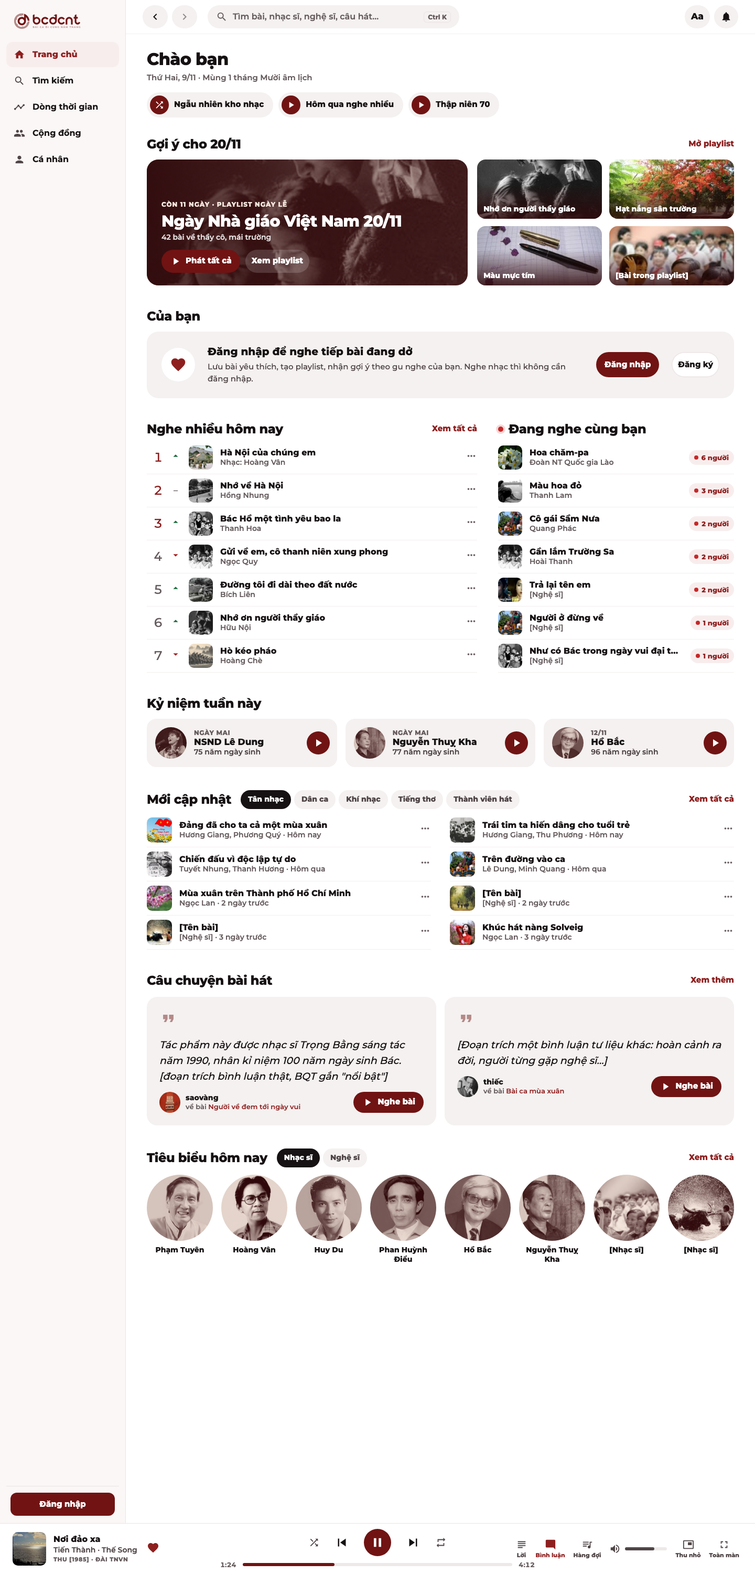
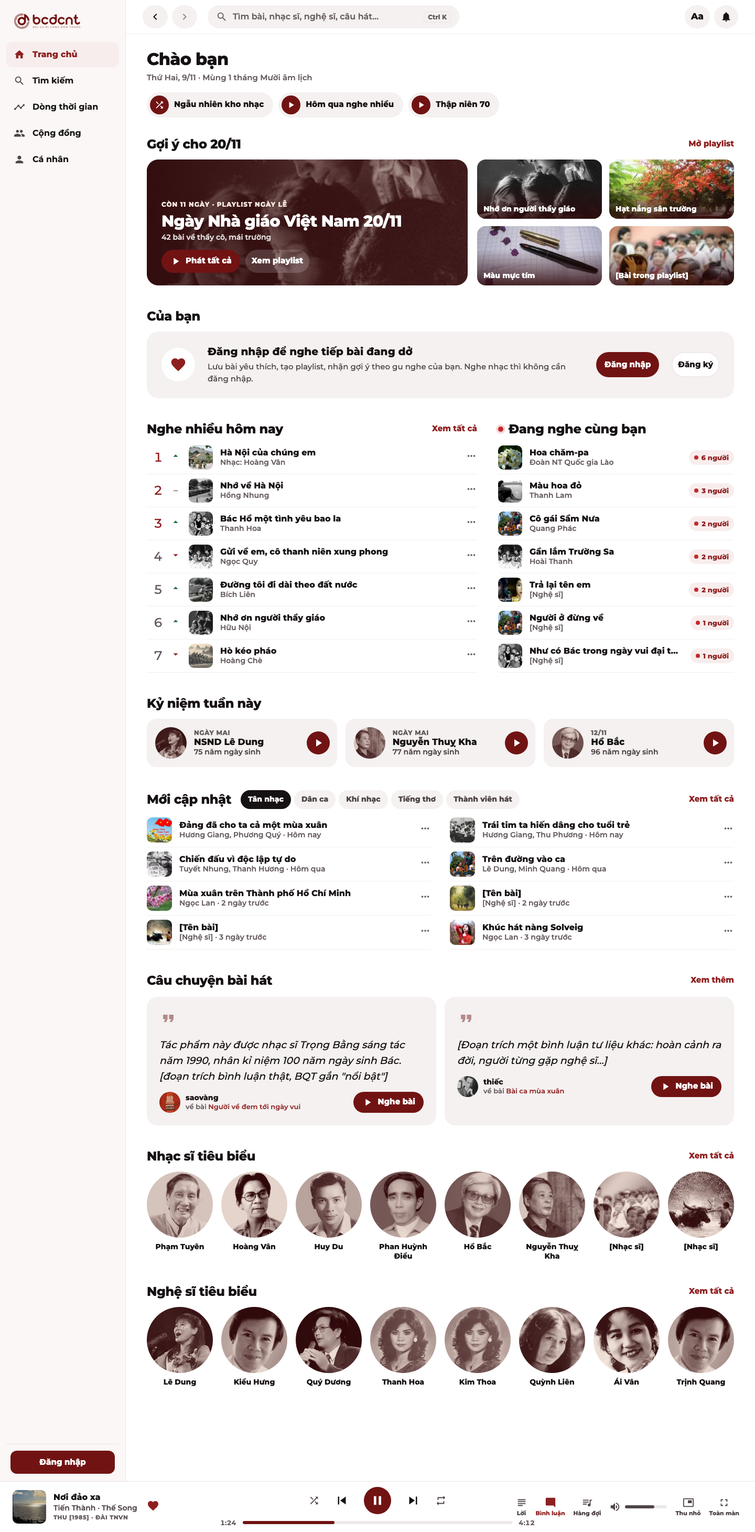
design(canvas): trang chủ desktop tách Nhạc sĩ / Nghệ sĩ tiêu biểu thành 2 hàng (không tab)

diff --git a/design/canvas/project/Desktop_TrangChu.dc.html b/design/canvas/project/Desktop_TrangChu.dc.html
@@ -11,8 +11,8 @@
 <link href="https://fonts.googleapis.com/css2?family=Montserrat:wght@500;600;700;800&amp;display=swap" rel="stylesheet">
 <style>body{margin:0}a{color:#8E1F1F;text-decoration:none}</style>
 </helmet>
-<!-- Trang chủ desktop gọn (9 khối): Lời chào + Phát nhanh · Gợi ý ngày lễ (chỉ khi sắp tới) · Của bạn (Nghe tiếp | Mới thích | Nghe đi nghe lại) · Nghe nhiều hôm nay | Đang nghe cùng bạn · Kỷ niệm tuần này · Mới cập nhật · Câu chuyện bài hát · Có thể bạn thích · Tiêu biểu hôm nay (Nhạc sĩ | Nghệ sĩ). Lọc trùng: bài đã có ở khối trên thì khối dưới bỏ qua. Thẻ bài giữ ~150–170px, cửa sổ rộng thì thêm cột. Bỏ Đi theo thập niên (đã có mục Dòng thời gian ở menu) -->
-<div style="width: 1440px; height: 3420px; background: #FFFFFF; font-family: Montserrat, sans-serif; line-height: 1.25; color: #161112; display: flex; flex-direction: column; overflow: hidden; position: relative">
+<!-- Trang chủ desktop gọn (10 khối): Lời chào + Phát nhanh · Gợi ý ngày lễ (chỉ khi sắp tới) · Của bạn (Nghe tiếp | Mới thích | Nghe đi nghe lại) · Nghe nhiều hôm nay | Đang nghe cùng bạn · Kỷ niệm tuần này · Mới cập nhật · Câu chuyện bài hát · Có thể bạn thích · Nhạc sĩ tiêu biểu · Nghệ sĩ tiêu biểu (2 hàng riêng, không tab: cho thấy kho có gì). Khối do người dùng chủ động chọn (Của bạn, Mới cập nhật) mới dùng tab. Lọc trùng: bài đã có ở khối trên thì khối dưới bỏ qua. Thẻ bài giữ ~150–170px, cửa sổ rộng thì thêm cột. Bỏ Đi theo thập niên (đã có mục Dòng thời gian ở menu) -->
+<div style="width: 1440px; height: 3340px; background: #FFFFFF; font-family: Montserrat, sans-serif; line-height: 1.25; color: #161112; display: flex; flex-direction: column; overflow: hidden; position: relative">
 <svg width="0" height="0" aria-hidden="true" style="position: absolute"><filter id="brandTint" color-interpolation-filters="sRGB"><feColorMatrix type="matrix" values="0.1667 0.5609 0.0566 0 0.1804  0.1868 0.6283 0.0634 0 0.0314  0.1767 0.5946 0.0600 0 0.0392  0 0 0 1 0"></feColorMatrix></filter></svg>
 <div style="flex: 1; min-height: 0; display: flex"><!-- Menu trái 240 (co về 76 khi cửa sổ < 1280): 5 mục cố định có chữ + Bàn làm việc (chỉ ai có quyền). Playlist ghim = nơi thả bài khi kéo -->
 <aside style="width: 240px; flex-shrink: 0; background: #FAF7F6; border-right: 1px solid #ECE4E4; display: flex; flex-direction: column; padding: 16px 12px 14px; box-sizing: border-box">
@@ -44,7 +44,8 @@
 <div style="margin-top: 0"><div style="display: flex; align-items: center; gap: 10px"><h2 style="margin: 0; flex: 1; font-size: 24px; font-weight: 800; letter-spacing: -0.4px">Câu chuyện bài hát</h2><span style="font-size: 15px; font-weight: 800; color: #8E1F1F">Xem thêm</span></div><div style="margin-top: 16px; display: flex; gap: 16px"><div style="flex: 1; border-radius: 20px; background: #F4F1F0; padding: 24px; display: flex; flex-direction: column; gap: 14px"><span style="color: #B48988"><svg width="34" height="34" viewBox="0 0 24 24" fill="currentColor" aria-hidden="true" style="flex-shrink: 0"><path d="M6 17h3l2-4V7H5v6h3zm8 0h3l2-4V7h-6v6h3z"></path></svg></span><div style="font-size: 19px; line-height: 30px; font-style: italic; font-weight: 500">Tác phẩm này được nhạc sĩ Trọng Bằng sáng tác năm 1990, nhân kỉ niệm 100 năm ngày sinh Bác. [đoạn trích bình luận thật, BQT gắn "nổi bật"]</div><div style="display: flex; align-items: center; gap: 10px"><img src="/_blob/82eaabf5353f0932631acc5c429f9aef" alt="" style="width: 40px; height: 40px; border-radius: 20px; object-fit: cover"><span style="flex: 1; display: flex; flex-direction: column"><span style="font-size: 14px; font-weight: 800">saovàng</span><span style="font-size: 13px; font-weight: 600; color: #665C5E">về bài <span style="color: #8E1F1F">Người về đem tới ngày vui</span></span></span><span style="height: 40px; padding: 0 16px; border-radius: 20px; display: inline-flex; align-items: center; gap: 8px; font-size: 15px; font-weight: 800; white-space: nowrap; background: #711313; color: #fff"><svg width="22" height="22" viewBox="0 0 24 24" fill="currentColor" aria-hidden="true" style="flex-shrink: 0"><path d="M8 5v14l11-7z"></path></svg>Nghe bài</span></div></div><div style="flex: 1; border-radius: 20px; background: #F4F1F0; padding: 24px; display: flex; flex-direction: column; gap: 14px"><span style="color: #B48988"><svg width="34" height="34" viewBox="0 0 24 24" fill="currentColor" aria-hidden="true" style="flex-shrink: 0"><path d="M6 17h3l2-4V7H5v6h3zm8 0h3l2-4V7h-6v6h3z"></path></svg></span><div style="font-size: 19px; line-height: 30px; font-style: italic; font-weight: 500">[Đoạn trích một bình luận tư liệu khác: hoàn cảnh ra đời, người từng gặp nghệ sĩ…]</div><div style="display: flex; align-items: center; gap: 10px"><img src="/_blob/a97d0f68f2204caebbee0ae2a5197797" alt="" style="width: 40px; height: 40px; border-radius: 20px; object-fit: cover"><span style="flex: 1; display: flex; flex-direction: column"><span style="font-size: 14px; font-weight: 800">thiếc</span><span style="font-size: 13px; font-weight: 600; color: #665C5E">về bài <span style="color: #8E1F1F">Bài ca mùa xuân</span></span></span><span style="height: 40px; padding: 0 16px; border-radius: 20px; display: inline-flex; align-items: center; gap: 8px; font-size: 15px; font-weight: 800; white-space: nowrap; background: #711313; color: #fff"><svg width="22" height="22" viewBox="0 0 24 24" fill="currentColor" aria-hidden="true" style="flex-shrink: 0"><path d="M8 5v14l11-7z"></path></svg>Nghe bài</span></div></div></div></div>
 </div>
 <div style="margin-top: 44px; display: flex; align-items: center"><h2 style="margin: 0; font-size: 24px; font-weight: 800; letter-spacing: -0.4px">Có thể bạn thích</h2><span style="flex: 1"></span><span style="font-size: 15px; font-weight: 800; color: #8E1F1F">Làm mới</span></div><div style="margin-top: 14px; display: grid; grid-template-columns: repeat(7, 1fr); gap: 18px"><div style="display: flex; flex-direction: column; gap: 8px; min-width: 0"><span style="position: relative; display: block"><img src="/_blob/4389c9865793c9555b85222a96bc6261" alt="" style="width: 100%; aspect-ratio: 1; border-radius: 16px; object-fit: cover; display: block"></span><span style="font-size: 15px; font-weight: 800; line-height: 20px; display: -webkit-box; -webkit-line-clamp: 2; -webkit-box-orient: vertical; overflow: hidden">Tình yêu bên suối</span><span style="font-size: 13px; font-weight: 600; color: #665C5E; white-space: nowrap; overflow: hidden; text-overflow: ellipsis">Vi Hoa</span></div><div style="display: flex; flex-direction: column; gap: 8px; min-width: 0"><span style="position: relative; display: block"><img src="/_blob/bb15a0633800c97866b0575ac7a8efe3" alt="" style="width: 100%; aspect-ratio: 1; border-radius: 16px; object-fit: cover; display: block"></span><span style="font-size: 15px; font-weight: 800; line-height: 20px; display: -webkit-box; -webkit-line-clamp: 2; -webkit-box-orient: vertical; overflow: hidden">Bài ca trên đỉnh Pò Hèn</span><span style="font-size: 13px; font-weight: 600; color: #665C5E; white-space: nowrap; overflow: hidden; text-overflow: ellipsis">Lê Dung</span></div><div style="display: flex; flex-direction: column; gap: 8px; min-width: 0"><span style="position: relative; display: block"><img src="/_blob/df179115019a3ccc2745790e41db9e77" alt="" style="width: 100%; aspect-ratio: 1; border-radius: 16px; object-fit: cover; display: block"></span><span style="font-size: 15px; font-weight: 800; line-height: 20px; display: -webkit-box; -webkit-line-clamp: 2; -webkit-box-orient: vertical; overflow: hidden">Biển mưa</span><span style="font-size: 13px; font-weight: 600; color: #665C5E; white-space: nowrap; overflow: hidden; text-overflow: ellipsis">Thùy Dung</span></div><div style="display: flex; flex-direction: column; gap: 8px; min-width: 0"><span style="position: relative; display: block"><img src="/_blob/bb3b0f0da1d0e24961fccd46653d78fd" alt="" style="width: 100%; aspect-ratio: 1; border-radius: 16px; object-fit: cover; display: block"></span><span style="font-size: 15px; font-weight: 800; line-height: 20px; display: -webkit-box; -webkit-line-clamp: 2; -webkit-box-orient: vertical; overflow: hidden">Hoa hồng biển đảo</span><span style="font-size: 13px; font-weight: 600; color: #665C5E; white-space: nowrap; overflow: hidden; text-overflow: ellipsis">Hùng Cường</span></div><div style="display: flex; flex-direction: column; gap: 8px; min-width: 0"><span style="position: relative; display: block"><img src="/_blob/347a87561e5096b8ac982c0ba4fe4ee2" alt="" style="width: 100%; aspect-ratio: 1; border-radius: 16px; object-fit: cover; display: block"></span><span style="font-size: 15px; font-weight: 800; line-height: 20px; display: -webkit-box; -webkit-line-clamp: 2; -webkit-box-orient: vertical; overflow: hidden">Gửi em ở cuối sông Hồng</span><span style="font-size: 13px; font-weight: 600; color: #665C5E; white-space: nowrap; overflow: hidden; text-overflow: ellipsis">Thanh Hoa</span></div><div style="display: flex; flex-direction: column; gap: 8px; min-width: 0"><span style="position: relative; display: block"><img src="/_blob/4d43b1ae67d8f63d12f062c5a3594426" alt="" style="width: 100%; aspect-ratio: 1; border-radius: 16px; object-fit: cover; display: block"></span><span style="font-size: 15px; font-weight: 800; line-height: 20px; display: -webkit-box; -webkit-line-clamp: 2; -webkit-box-orient: vertical; overflow: hidden">Lá xanh</span><span style="font-size: 13px; font-weight: 600; color: #665C5E; white-space: nowrap; overflow: hidden; text-overflow: ellipsis">Thanh Hoa</span></div><div style="display: flex; flex-direction: column; gap: 8px; min-width: 0"><span style="position: relative; display: block"><img src="/_blob/7c18e6713e2fe52e6a52bc2f56b2ecaf" alt="" style="width: 100%; aspect-ratio: 1; border-radius: 16px; object-fit: cover; display: block"></span><span style="font-size: 15px; font-weight: 800; line-height: 20px; display: -webkit-box; -webkit-line-clamp: 2; -webkit-box-orient: vertical; overflow: hidden">Chiến đấu vì độc lập tự do</span><span style="font-size: 13px; font-weight: 600; color: #665C5E; white-space: nowrap; overflow: hidden; text-overflow: ellipsis">Tiến Thành</span></div></div>
-<div style="margin-top: 44px; display: flex; align-items: center"><h2 style="margin: 0; font-size: 24px; font-weight: 800; letter-spacing: -0.4px">Tiêu biểu hôm nay</h2><div style="display: flex; gap: 6px; margin-left: 18px"><span style="height: 36px; padding: 0 14px; border-radius: 18px; display: flex; align-items: center; font-size: 14px; font-weight: 800; background: #161112; color: #fff">Nhạc sĩ</span><span style="height: 36px; padding: 0 14px; border-radius: 18px; display: flex; align-items: center; font-size: 14px; font-weight: 800; background: #F4F1F0; color: #4F4547">Nghệ sĩ</span></div><span style="flex: 1"></span><span style="font-size: 15px; font-weight: 800; color: #8E1F1F">Xem tất cả</span></div><div style="margin-top: 14px; display: grid; grid-template-columns: repeat(8, 1fr); gap: 16px"><div style="display: flex; flex-direction: column; align-items: center; gap: 8px"><img src="/_blob/d0be117e25da69210e9340d3bc1ad3e9" alt="" style="width: 100%; aspect-ratio: 1; border-radius: 50%; object-fit: cover; filter: url(#brandTint)"><span style="font-size: 14px; font-weight: 800; text-align: center; line-height: 18px">Phạm Tuyên</span></div><div style="display: flex; flex-direction: column; align-items: center; gap: 8px"><img src="/_blob/ce308386440f34ac7408727e1a99275c" alt="" style="width: 100%; aspect-ratio: 1; border-radius: 50%; object-fit: cover; filter: url(#brandTint)"><span style="font-size: 14px; font-weight: 800; text-align: center; line-height: 18px">Hoàng Vân</span></div><div style="display: flex; flex-direction: column; align-items: center; gap: 8px"><img src="/_blob/bdfff15a770709526c2104c10f099cbf" alt="" style="width: 100%; aspect-ratio: 1; border-radius: 50%; object-fit: cover; filter: url(#brandTint)"><span style="font-size: 14px; font-weight: 800; text-align: center; line-height: 18px">Huy Du</span></div><div style="display: flex; flex-direction: column; align-items: center; gap: 8px"><img src="/_blob/967ef0c8eba0b6408606ed1bf30b8a3c" alt="" style="width: 100%; aspect-ratio: 1; border-radius: 50%; object-fit: cover; filter: url(#brandTint)"><span style="font-size: 14px; font-weight: 800; text-align: center; line-height: 18px">Phan Huỳnh Điểu</span></div><div style="display: flex; flex-direction: column; align-items: center; gap: 8px"><img src="/_blob/7f1cc5b58b3c1010edc2852ecf82bb45" alt="" style="width: 100%; aspect-ratio: 1; border-radius: 50%; object-fit: cover; filter: url(#brandTint)"><span style="font-size: 14px; font-weight: 800; text-align: center; line-height: 18px">Hồ Bắc</span></div><div style="display: flex; flex-direction: column; align-items: center; gap: 8px"><img src="/_blob/09b4a9d1f3cb118726c46f229ea0c467" alt="" style="width: 100%; aspect-ratio: 1; border-radius: 50%; object-fit: cover; filter: url(#brandTint)"><span style="font-size: 14px; font-weight: 800; text-align: center; line-height: 18px">Nguyễn Thuỵ Kha</span></div><div style="display: flex; flex-direction: column; align-items: center; gap: 8px"><img src="/_blob/9251b47b1889ec51cca3a3508d7b86a0" alt="" style="width: 100%; aspect-ratio: 1; border-radius: 50%; object-fit: cover; filter: url(#brandTint)"><span style="font-size: 14px; font-weight: 800; text-align: center; line-height: 18px">[Nhạc sĩ]</span></div><div style="display: flex; flex-direction: column; align-items: center; gap: 8px"><img src="/_blob/3bad75add49fd61be13c117db4e9c476" alt="" style="width: 100%; aspect-ratio: 1; border-radius: 50%; object-fit: cover; filter: url(#brandTint)"><span style="font-size: 14px; font-weight: 800; text-align: center; line-height: 18px">[Nhạc sĩ]</span></div></div>
+<div style="margin-top: 44px; display: flex; align-items: center"><h2 style="margin: 0; font-size: 24px; font-weight: 800; letter-spacing: -0.4px">Nhạc sĩ tiêu biểu</h2><span style="flex: 1"></span><span style="font-size: 15px; font-weight: 800; color: #8E1F1F">Xem tất cả</span></div><div style="margin-top: 14px; display: grid; grid-template-columns: repeat(8, 1fr); gap: 16px"><div style="display: flex; flex-direction: column; align-items: center; gap: 8px"><img src="/_blob/d0be117e25da69210e9340d3bc1ad3e9" alt="" style="width: 100%; aspect-ratio: 1; border-radius: 50%; object-fit: cover; filter: url(#brandTint)"><span style="font-size: 14px; font-weight: 800; text-align: center; line-height: 18px">Phạm Tuyên</span></div><div style="display: flex; flex-direction: column; align-items: center; gap: 8px"><img src="/_blob/ce308386440f34ac7408727e1a99275c" alt="" style="width: 100%; aspect-ratio: 1; border-radius: 50%; object-fit: cover; filter: url(#brandTint)"><span style="font-size: 14px; font-weight: 800; text-align: center; line-height: 18px">Hoàng Vân</span></div><div style="display: flex; flex-direction: column; align-items: center; gap: 8px"><img src="/_blob/bdfff15a770709526c2104c10f099cbf" alt="" style="width: 100%; aspect-ratio: 1; border-radius: 50%; object-fit: cover; filter: url(#brandTint)"><span style="font-size: 14px; font-weight: 800; text-align: center; line-height: 18px">Huy Du</span></div><div style="display: flex; flex-direction: column; align-items: center; gap: 8px"><img src="/_blob/967ef0c8eba0b6408606ed1bf30b8a3c" alt="" style="width: 100%; aspect-ratio: 1; border-radius: 50%; object-fit: cover; filter: url(#brandTint)"><span style="font-size: 14px; font-weight: 800; text-align: center; line-height: 18px">Phan Huỳnh Điểu</span></div><div style="display: flex; flex-direction: column; align-items: center; gap: 8px"><img src="/_blob/7f1cc5b58b3c1010edc2852ecf82bb45" alt="" style="width: 100%; aspect-ratio: 1; border-radius: 50%; object-fit: cover; filter: url(#brandTint)"><span style="font-size: 14px; font-weight: 800; text-align: center; line-height: 18px">Hồ Bắc</span></div><div style="display: flex; flex-direction: column; align-items: center; gap: 8px"><img src="/_blob/09b4a9d1f3cb118726c46f229ea0c467" alt="" style="width: 100%; aspect-ratio: 1; border-radius: 50%; object-fit: cover; filter: url(#brandTint)"><span style="font-size: 14px; font-weight: 800; text-align: center; line-height: 18px">Nguyễn Thuỵ Kha</span></div><div style="display: flex; flex-direction: column; align-items: center; gap: 8px"><img src="/_blob/9251b47b1889ec51cca3a3508d7b86a0" alt="" style="width: 100%; aspect-ratio: 1; border-radius: 50%; object-fit: cover; filter: url(#brandTint)"><span style="font-size: 14px; font-weight: 800; text-align: center; line-height: 18px">[Nhạc sĩ]</span></div><div style="display: flex; flex-direction: column; align-items: center; gap: 8px"><img src="/_blob/3bad75add49fd61be13c117db4e9c476" alt="" style="width: 100%; aspect-ratio: 1; border-radius: 50%; object-fit: cover; filter: url(#brandTint)"><span style="font-size: 14px; font-weight: 800; text-align: center; line-height: 18px">[Nhạc sĩ]</span></div></div>
+<div style="margin-top: 44px; display: flex; align-items: center"><h2 style="margin: 0; font-size: 24px; font-weight: 800; letter-spacing: -0.4px">Nghệ sĩ tiêu biểu</h2><span style="flex: 1"></span><span style="font-size: 15px; font-weight: 800; color: #8E1F1F">Xem tất cả</span></div><div style="margin-top: 14px; display: grid; grid-template-columns: repeat(8, 1fr); gap: 16px"><div style="display: flex; flex-direction: column; align-items: center; gap: 8px"><img src="/_blob/bdcaa2726179d81940c9f392878e853d" alt="" style="width: 100%; aspect-ratio: 1; border-radius: 50%; object-fit: cover; filter: url(#brandTint)"><span style="font-size: 14px; font-weight: 800; text-align: center; line-height: 18px">Lê Dung</span></div><div style="display: flex; flex-direction: column; align-items: center; gap: 8px"><img src="/_blob/53dfe697f429b1407d32bc3a4bd6e54e" alt="" style="width: 100%; aspect-ratio: 1; border-radius: 50%; object-fit: cover; filter: url(#brandTint)"><span style="font-size: 14px; font-weight: 800; text-align: center; line-height: 18px">Kiều Hưng</span></div><div style="display: flex; flex-direction: column; align-items: center; gap: 8px"><img src="/_blob/cda535618eeef0ed7e4e103385b67603" alt="" style="width: 100%; aspect-ratio: 1; border-radius: 50%; object-fit: cover; filter: url(#brandTint)"><span style="font-size: 14px; font-weight: 800; text-align: center; line-height: 18px">Quý Dương</span></div><div style="display: flex; flex-direction: column; align-items: center; gap: 8px"><img src="/_blob/670687ae13ef94f00e8e104098cef387" alt="" style="width: 100%; aspect-ratio: 1; border-radius: 50%; object-fit: cover; filter: url(#brandTint)"><span style="font-size: 14px; font-weight: 800; text-align: center; line-height: 18px">Thanh Hoa</span></div><div style="display: flex; flex-direction: column; align-items: center; gap: 8px"><img src="/_blob/55e993e865c5ee96318be61a43e22f69" alt="" style="width: 100%; aspect-ratio: 1; border-radius: 50%; object-fit: cover; filter: url(#brandTint)"><span style="font-size: 14px; font-weight: 800; text-align: center; line-height: 18px">Kim Thoa</span></div><div style="display: flex; flex-direction: column; align-items: center; gap: 8px"><img src="/_blob/ee090bf65c0f1f94ff1c48a291a9d3a5" alt="" style="width: 100%; aspect-ratio: 1; border-radius: 50%; object-fit: cover; filter: url(#brandTint)"><span style="font-size: 14px; font-weight: 800; text-align: center; line-height: 18px">Quỳnh Liên</span></div><div style="display: flex; flex-direction: column; align-items: center; gap: 8px"><img src="/_blob/65bc3a73d2e07138ec63e1648b645846" alt="" style="width: 100%; aspect-ratio: 1; border-radius: 50%; object-fit: cover; filter: url(#brandTint)"><span style="font-size: 14px; font-weight: 800; text-align: center; line-height: 18px">Ái Vân</span></div><div style="display: flex; flex-direction: column; align-items: center; gap: 8px"><img src="/_blob/180c7f3c5f6a03d15d5cfc4726a5f835" alt="" style="width: 100%; aspect-ratio: 1; border-radius: 50%; object-fit: cover; filter: url(#brandTint)"><span style="font-size: 14px; font-weight: 800; text-align: center; line-height: 18px">Trịnh Quang</span></div></div>
 </div></main></div></div><!-- Thanh phát 96, tầng ngoài cùng: đổi trang không dừng nhạc. Trái: bài + nhãn lưu trữ · Giữa: điều khiển (phát 52) + thanh 6px (nở 10 khi rê) · Phải: nút CÓ CHỮ mở ngăn phải, âm lượng, mini player, toàn màn (F) -->
 <div style="height: 96px; flex-shrink: 0; border-top: 1px solid #ECE4E4; background: #fff; display: flex; align-items: center; padding: 0 24px; gap: 24px">
 <div style="width: 340px; display: flex; align-items: center; gap: 14px"><img src="/_blob/15d021a625e44f0e9ff37aae395a5ec2" alt="" style="width: 64px; height: 64px; border-radius: 10px; object-fit: cover"><span style="min-width: 0; display: flex; flex-direction: column; gap: 2px"><span style="font-size: 16px; font-weight: 800">Nơi đảo xa</span><span style="font-size: 14px; font-weight: 600; color: #4F4547">Tiến Thành · Thế Song</span><span style="font-size: 11px; font-weight: 800; letter-spacing: 0.6px; color: #665C5E">THU [1985] · ĐÀI TNVN</span></span><span style="margin-left: 4px; color: #8E1F1F"><svg width="24" height="24" viewBox="0 0 24 24" fill="currentColor" aria-hidden="true" style="flex-shrink: 0"><path d="M12 21.35l-1.45-1.32C5.4 15.36 2 12.28 2 8.5 2 5.42 4.42 3 7.5 3c1.74 0 3.41.81 4.5 2.09C13.09 3.81 14.76 3 16.5 3 19.58 3 22 5.42 22 8.5c0 3.78-3.4 6.86-8.55 11.54L12 21.35z"></path></svg></span></div>
@@ -55,7 +56,7 @@
 </div>
 </div>
 </x-dc>
-<script type="text/x-dc" data-dc-script data-props='{"$preview":{"width":1440,"height":3420}}'>
+<script type="text/x-dc" data-dc-script data-props='{"$preview":{"width":1440,"height":3340}}'>
 class Component extends DCLogic {
 renderVals() {
 return {};

diff --git a/design/canvas/project/Desktop_TrangChu_Khach.dc.html b/design/canvas/project/Desktop_TrangChu_Khach.dc.html
@@ -12,7 +12,7 @@
 <style>body{margin:0}a{color:#8E1F1F;text-decoration:none}</style>
 </helmet>
 <!-- Trang chủ khi chưa đăng nhập: khối "Của bạn" thành lời mời đăng nhập; không có Có thể bạn thích, kênh cá nhân; menu không có playlist, chân menu là nút Đăng nhập -->
-<div style="width: 1440px; height: 3000px; background: #FFFFFF; font-family: Montserrat, sans-serif; line-height: 1.25; color: #161112; display: flex; flex-direction: column; overflow: hidden; position: relative">
+<div style="width: 1440px; height: 2920px; background: #FFFFFF; font-family: Montserrat, sans-serif; line-height: 1.25; color: #161112; display: flex; flex-direction: column; overflow: hidden; position: relative">
 <svg width="0" height="0" aria-hidden="true" style="position: absolute"><filter id="brandTint" color-interpolation-filters="sRGB"><feColorMatrix type="matrix" values="0.1667 0.5609 0.0566 0 0.1804  0.1868 0.6283 0.0634 0 0.0314  0.1767 0.5946 0.0600 0 0.0392  0 0 0 1 0"></feColorMatrix></filter></svg>
 <div style="flex: 1; min-height: 0; display: flex"><!-- Menu trái 240 (co về 76 khi cửa sổ < 1280): 5 mục cố định có chữ + Bàn làm việc (chỉ ai có quyền). Playlist ghim = nơi thả bài khi kéo -->
 <aside style="width: 240px; flex-shrink: 0; background: #FAF7F6; border-right: 1px solid #ECE4E4; display: flex; flex-direction: column; padding: 16px 12px 14px; box-sizing: border-box">
@@ -41,7 +41,8 @@
 <div style="margin-top: 0"><div style="display: flex; align-items: center; gap: 10px"><h2 style="margin: 0; flex: 1; font-size: 24px; font-weight: 800; letter-spacing: -0.4px">Câu chuyện bài hát</h2><span style="font-size: 15px; font-weight: 800; color: #8E1F1F">Xem thêm</span></div><div style="margin-top: 16px; display: flex; gap: 16px"><div style="flex: 1; border-radius: 20px; background: #F4F1F0; padding: 24px; display: flex; flex-direction: column; gap: 14px"><span style="color: #B48988"><svg width="34" height="34" viewBox="0 0 24 24" fill="currentColor" aria-hidden="true" style="flex-shrink: 0"><path d="M6 17h3l2-4V7H5v6h3zm8 0h3l2-4V7h-6v6h3z"></path></svg></span><div style="font-size: 19px; line-height: 30px; font-style: italic; font-weight: 500">Tác phẩm này được nhạc sĩ Trọng Bằng sáng tác năm 1990, nhân kỉ niệm 100 năm ngày sinh Bác. [đoạn trích bình luận thật, BQT gắn "nổi bật"]</div><div style="display: flex; align-items: center; gap: 10px"><img src="/_blob/82eaabf5353f0932631acc5c429f9aef" alt="" style="width: 40px; height: 40px; border-radius: 20px; object-fit: cover"><span style="flex: 1; display: flex; flex-direction: column"><span style="font-size: 14px; font-weight: 800">saovàng</span><span style="font-size: 13px; font-weight: 600; color: #665C5E">về bài <span style="color: #8E1F1F">Người về đem tới ngày vui</span></span></span><span style="height: 40px; padding: 0 16px; border-radius: 20px; display: inline-flex; align-items: center; gap: 8px; font-size: 15px; font-weight: 800; white-space: nowrap; background: #711313; color: #fff"><svg width="22" height="22" viewBox="0 0 24 24" fill="currentColor" aria-hidden="true" style="flex-shrink: 0"><path d="M8 5v14l11-7z"></path></svg>Nghe bài</span></div></div><div style="flex: 1; border-radius: 20px; background: #F4F1F0; padding: 24px; display: flex; flex-direction: column; gap: 14px"><span style="color: #B48988"><svg width="34" height="34" viewBox="0 0 24 24" fill="currentColor" aria-hidden="true" style="flex-shrink: 0"><path d="M6 17h3l2-4V7H5v6h3zm8 0h3l2-4V7h-6v6h3z"></path></svg></span><div style="font-size: 19px; line-height: 30px; font-style: italic; font-weight: 500">[Đoạn trích một bình luận tư liệu khác: hoàn cảnh ra đời, người từng gặp nghệ sĩ…]</div><div style="display: flex; align-items: center; gap: 10px"><img src="/_blob/a97d0f68f2204caebbee0ae2a5197797" alt="" style="width: 40px; height: 40px; border-radius: 20px; object-fit: cover"><span style="flex: 1; display: flex; flex-direction: column"><span style="font-size: 14px; font-weight: 800">thiếc</span><span style="font-size: 13px; font-weight: 600; color: #665C5E">về bài <span style="color: #8E1F1F">Bài ca mùa xuân</span></span></span><span style="height: 40px; padding: 0 16px; border-radius: 20px; display: inline-flex; align-items: center; gap: 8px; font-size: 15px; font-weight: 800; white-space: nowrap; background: #711313; color: #fff"><svg width="22" height="22" viewBox="0 0 24 24" fill="currentColor" aria-hidden="true" style="flex-shrink: 0"><path d="M8 5v14l11-7z"></path></svg>Nghe bài</span></div></div></div></div>
 </div>
 
-<div style="margin-top: 44px; display: flex; align-items: center"><h2 style="margin: 0; font-size: 24px; font-weight: 800; letter-spacing: -0.4px">Tiêu biểu hôm nay</h2><div style="display: flex; gap: 6px; margin-left: 18px"><span style="height: 36px; padding: 0 14px; border-radius: 18px; display: flex; align-items: center; font-size: 14px; font-weight: 800; background: #161112; color: #fff">Nhạc sĩ</span><span style="height: 36px; padding: 0 14px; border-radius: 18px; display: flex; align-items: center; font-size: 14px; font-weight: 800; background: #F4F1F0; color: #4F4547">Nghệ sĩ</span></div><span style="flex: 1"></span><span style="font-size: 15px; font-weight: 800; color: #8E1F1F">Xem tất cả</span></div><div style="margin-top: 14px; display: grid; grid-template-columns: repeat(8, 1fr); gap: 16px"><div style="display: flex; flex-direction: column; align-items: center; gap: 8px"><img src="/_blob/d0be117e25da69210e9340d3bc1ad3e9" alt="" style="width: 100%; aspect-ratio: 1; border-radius: 50%; object-fit: cover; filter: url(#brandTint)"><span style="font-size: 14px; font-weight: 800; text-align: center; line-height: 18px">Phạm Tuyên</span></div><div style="display: flex; flex-direction: column; align-items: center; gap: 8px"><img src="/_blob/ce308386440f34ac7408727e1a99275c" alt="" style="width: 100%; aspect-ratio: 1; border-radius: 50%; object-fit: cover; filter: url(#brandTint)"><span style="font-size: 14px; font-weight: 800; text-align: center; line-height: 18px">Hoàng Vân</span></div><div style="display: flex; flex-direction: column; align-items: center; gap: 8px"><img src="/_blob/bdfff15a770709526c2104c10f099cbf" alt="" style="width: 100%; aspect-ratio: 1; border-radius: 50%; object-fit: cover; filter: url(#brandTint)"><span style="font-size: 14px; font-weight: 800; text-align: center; line-height: 18px">Huy Du</span></div><div style="display: flex; flex-direction: column; align-items: center; gap: 8px"><img src="/_blob/967ef0c8eba0b6408606ed1bf30b8a3c" alt="" style="width: 100%; aspect-ratio: 1; border-radius: 50%; object-fit: cover; filter: url(#brandTint)"><span style="font-size: 14px; font-weight: 800; text-align: center; line-height: 18px">Phan Huỳnh Điểu</span></div><div style="display: flex; flex-direction: column; align-items: center; gap: 8px"><img src="/_blob/7f1cc5b58b3c1010edc2852ecf82bb45" alt="" style="width: 100%; aspect-ratio: 1; border-radius: 50%; object-fit: cover; filter: url(#brandTint)"><span style="font-size: 14px; font-weight: 800; text-align: center; line-height: 18px">Hồ Bắc</span></div><div style="display: flex; flex-direction: column; align-items: center; gap: 8px"><img src="/_blob/09b4a9d1f3cb118726c46f229ea0c467" alt="" style="width: 100%; aspect-ratio: 1; border-radius: 50%; object-fit: cover; filter: url(#brandTint)"><span style="font-size: 14px; font-weight: 800; text-align: center; line-height: 18px">Nguyễn Thuỵ Kha</span></div><div style="display: flex; flex-direction: column; align-items: center; gap: 8px"><img src="/_blob/9251b47b1889ec51cca3a3508d7b86a0" alt="" style="width: 100%; aspect-ratio: 1; border-radius: 50%; object-fit: cover; filter: url(#brandTint)"><span style="font-size: 14px; font-weight: 800; text-align: center; line-height: 18px">[Nhạc sĩ]</span></div><div style="display: flex; flex-direction: column; align-items: center; gap: 8px"><img src="/_blob/3bad75add49fd61be13c117db4e9c476" alt="" style="width: 100%; aspect-ratio: 1; border-radius: 50%; object-fit: cover; filter: url(#brandTint)"><span style="font-size: 14px; font-weight: 800; text-align: center; line-height: 18px">[Nhạc sĩ]</span></div></div>
+<div style="margin-top: 44px; display: flex; align-items: center"><h2 style="margin: 0; font-size: 24px; font-weight: 800; letter-spacing: -0.4px">Nhạc sĩ tiêu biểu</h2><span style="flex: 1"></span><span style="font-size: 15px; font-weight: 800; color: #8E1F1F">Xem tất cả</span></div><div style="margin-top: 14px; display: grid; grid-template-columns: repeat(8, 1fr); gap: 16px"><div style="display: flex; flex-direction: column; align-items: center; gap: 8px"><img src="/_blob/d0be117e25da69210e9340d3bc1ad3e9" alt="" style="width: 100%; aspect-ratio: 1; border-radius: 50%; object-fit: cover; filter: url(#brandTint)"><span style="font-size: 14px; font-weight: 800; text-align: center; line-height: 18px">Phạm Tuyên</span></div><div style="display: flex; flex-direction: column; align-items: center; gap: 8px"><img src="/_blob/ce308386440f34ac7408727e1a99275c" alt="" style="width: 100%; aspect-ratio: 1; border-radius: 50%; object-fit: cover; filter: url(#brandTint)"><span style="font-size: 14px; font-weight: 800; text-align: center; line-height: 18px">Hoàng Vân</span></div><div style="display: flex; flex-direction: column; align-items: center; gap: 8px"><img src="/_blob/bdfff15a770709526c2104c10f099cbf" alt="" style="width: 100%; aspect-ratio: 1; border-radius: 50%; object-fit: cover; filter: url(#brandTint)"><span style="font-size: 14px; font-weight: 800; text-align: center; line-height: 18px">Huy Du</span></div><div style="display: flex; flex-direction: column; align-items: center; gap: 8px"><img src="/_blob/967ef0c8eba0b6408606ed1bf30b8a3c" alt="" style="width: 100%; aspect-ratio: 1; border-radius: 50%; object-fit: cover; filter: url(#brandTint)"><span style="font-size: 14px; font-weight: 800; text-align: center; line-height: 18px">Phan Huỳnh Điểu</span></div><div style="display: flex; flex-direction: column; align-items: center; gap: 8px"><img src="/_blob/7f1cc5b58b3c1010edc2852ecf82bb45" alt="" style="width: 100%; aspect-ratio: 1; border-radius: 50%; object-fit: cover; filter: url(#brandTint)"><span style="font-size: 14px; font-weight: 800; text-align: center; line-height: 18px">Hồ Bắc</span></div><div style="display: flex; flex-direction: column; align-items: center; gap: 8px"><img src="/_blob/09b4a9d1f3cb118726c46f229ea0c467" alt="" style="width: 100%; aspect-ratio: 1; border-radius: 50%; object-fit: cover; filter: url(#brandTint)"><span style="font-size: 14px; font-weight: 800; text-align: center; line-height: 18px">Nguyễn Thuỵ Kha</span></div><div style="display: flex; flex-direction: column; align-items: center; gap: 8px"><img src="/_blob/9251b47b1889ec51cca3a3508d7b86a0" alt="" style="width: 100%; aspect-ratio: 1; border-radius: 50%; object-fit: cover; filter: url(#brandTint)"><span style="font-size: 14px; font-weight: 800; text-align: center; line-height: 18px">[Nhạc sĩ]</span></div><div style="display: flex; flex-direction: column; align-items: center; gap: 8px"><img src="/_blob/3bad75add49fd61be13c117db4e9c476" alt="" style="width: 100%; aspect-ratio: 1; border-radius: 50%; object-fit: cover; filter: url(#brandTint)"><span style="font-size: 14px; font-weight: 800; text-align: center; line-height: 18px">[Nhạc sĩ]</span></div></div>
+<div style="margin-top: 44px; display: flex; align-items: center"><h2 style="margin: 0; font-size: 24px; font-weight: 800; letter-spacing: -0.4px">Nghệ sĩ tiêu biểu</h2><span style="flex: 1"></span><span style="font-size: 15px; font-weight: 800; color: #8E1F1F">Xem tất cả</span></div><div style="margin-top: 14px; display: grid; grid-template-columns: repeat(8, 1fr); gap: 16px"><div style="display: flex; flex-direction: column; align-items: center; gap: 8px"><img src="/_blob/bdcaa2726179d81940c9f392878e853d" alt="" style="width: 100%; aspect-ratio: 1; border-radius: 50%; object-fit: cover; filter: url(#brandTint)"><span style="font-size: 14px; font-weight: 800; text-align: center; line-height: 18px">Lê Dung</span></div><div style="display: flex; flex-direction: column; align-items: center; gap: 8px"><img src="/_blob/53dfe697f429b1407d32bc3a4bd6e54e" alt="" style="width: 100%; aspect-ratio: 1; border-radius: 50%; object-fit: cover; filter: url(#brandTint)"><span style="font-size: 14px; font-weight: 800; text-align: center; line-height: 18px">Kiều Hưng</span></div><div style="display: flex; flex-direction: column; align-items: center; gap: 8px"><img src="/_blob/cda535618eeef0ed7e4e103385b67603" alt="" style="width: 100%; aspect-ratio: 1; border-radius: 50%; object-fit: cover; filter: url(#brandTint)"><span style="font-size: 14px; font-weight: 800; text-align: center; line-height: 18px">Quý Dương</span></div><div style="display: flex; flex-direction: column; align-items: center; gap: 8px"><img src="/_blob/670687ae13ef94f00e8e104098cef387" alt="" style="width: 100%; aspect-ratio: 1; border-radius: 50%; object-fit: cover; filter: url(#brandTint)"><span style="font-size: 14px; font-weight: 800; text-align: center; line-height: 18px">Thanh Hoa</span></div><div style="display: flex; flex-direction: column; align-items: center; gap: 8px"><img src="/_blob/55e993e865c5ee96318be61a43e22f69" alt="" style="width: 100%; aspect-ratio: 1; border-radius: 50%; object-fit: cover; filter: url(#brandTint)"><span style="font-size: 14px; font-weight: 800; text-align: center; line-height: 18px">Kim Thoa</span></div><div style="display: flex; flex-direction: column; align-items: center; gap: 8px"><img src="/_blob/ee090bf65c0f1f94ff1c48a291a9d3a5" alt="" style="width: 100%; aspect-ratio: 1; border-radius: 50%; object-fit: cover; filter: url(#brandTint)"><span style="font-size: 14px; font-weight: 800; text-align: center; line-height: 18px">Quỳnh Liên</span></div><div style="display: flex; flex-direction: column; align-items: center; gap: 8px"><img src="/_blob/65bc3a73d2e07138ec63e1648b645846" alt="" style="width: 100%; aspect-ratio: 1; border-radius: 50%; object-fit: cover; filter: url(#brandTint)"><span style="font-size: 14px; font-weight: 800; text-align: center; line-height: 18px">Ái Vân</span></div><div style="display: flex; flex-direction: column; align-items: center; gap: 8px"><img src="/_blob/180c7f3c5f6a03d15d5cfc4726a5f835" alt="" style="width: 100%; aspect-ratio: 1; border-radius: 50%; object-fit: cover; filter: url(#brandTint)"><span style="font-size: 14px; font-weight: 800; text-align: center; line-height: 18px">Trịnh Quang</span></div></div>
 </div></main></div></div><!-- Thanh phát 96, tầng ngoài cùng: đổi trang không dừng nhạc. Trái: bài + nhãn lưu trữ · Giữa: điều khiển (phát 52) + thanh 6px (nở 10 khi rê) · Phải: nút CÓ CHỮ mở ngăn phải, âm lượng, mini player, toàn màn (F) -->
 <div style="height: 96px; flex-shrink: 0; border-top: 1px solid #ECE4E4; background: #fff; display: flex; align-items: center; padding: 0 24px; gap: 24px">
 <div style="width: 340px; display: flex; align-items: center; gap: 14px"><img src="/_blob/15d021a625e44f0e9ff37aae395a5ec2" alt="" style="width: 64px; height: 64px; border-radius: 10px; object-fit: cover"><span style="min-width: 0; display: flex; flex-direction: column; gap: 2px"><span style="font-size: 16px; font-weight: 800">Nơi đảo xa</span><span style="font-size: 14px; font-weight: 600; color: #4F4547">Tiến Thành · Thế Song</span><span style="font-size: 11px; font-weight: 800; letter-spacing: 0.6px; color: #665C5E">THU [1985] · ĐÀI TNVN</span></span><span style="margin-left: 4px; color: #8E1F1F"><svg width="24" height="24" viewBox="0 0 24 24" fill="currentColor" aria-hidden="true" style="flex-shrink: 0"><path d="M12 21.35l-1.45-1.32C5.4 15.36 2 12.28 2 8.5 2 5.42 4.42 3 7.5 3c1.74 0 3.41.81 4.5 2.09C13.09 3.81 14.76 3 16.5 3 19.58 3 22 5.42 22 8.5c0 3.78-3.4 6.86-8.55 11.54L12 21.35z"></path></svg></span></div>
@@ -52,7 +53,7 @@
 </div>
 </div>
 </x-dc>
-<script type="text/x-dc" data-dc-script data-props='{"$preview":{"width":1440,"height":3000}}'>
+<script type="text/x-dc" data-dc-script data-props='{"$preview":{"width":1440,"height":2920}}'>
 class Component extends DCLogic {
 renderVals() {
 return {};
